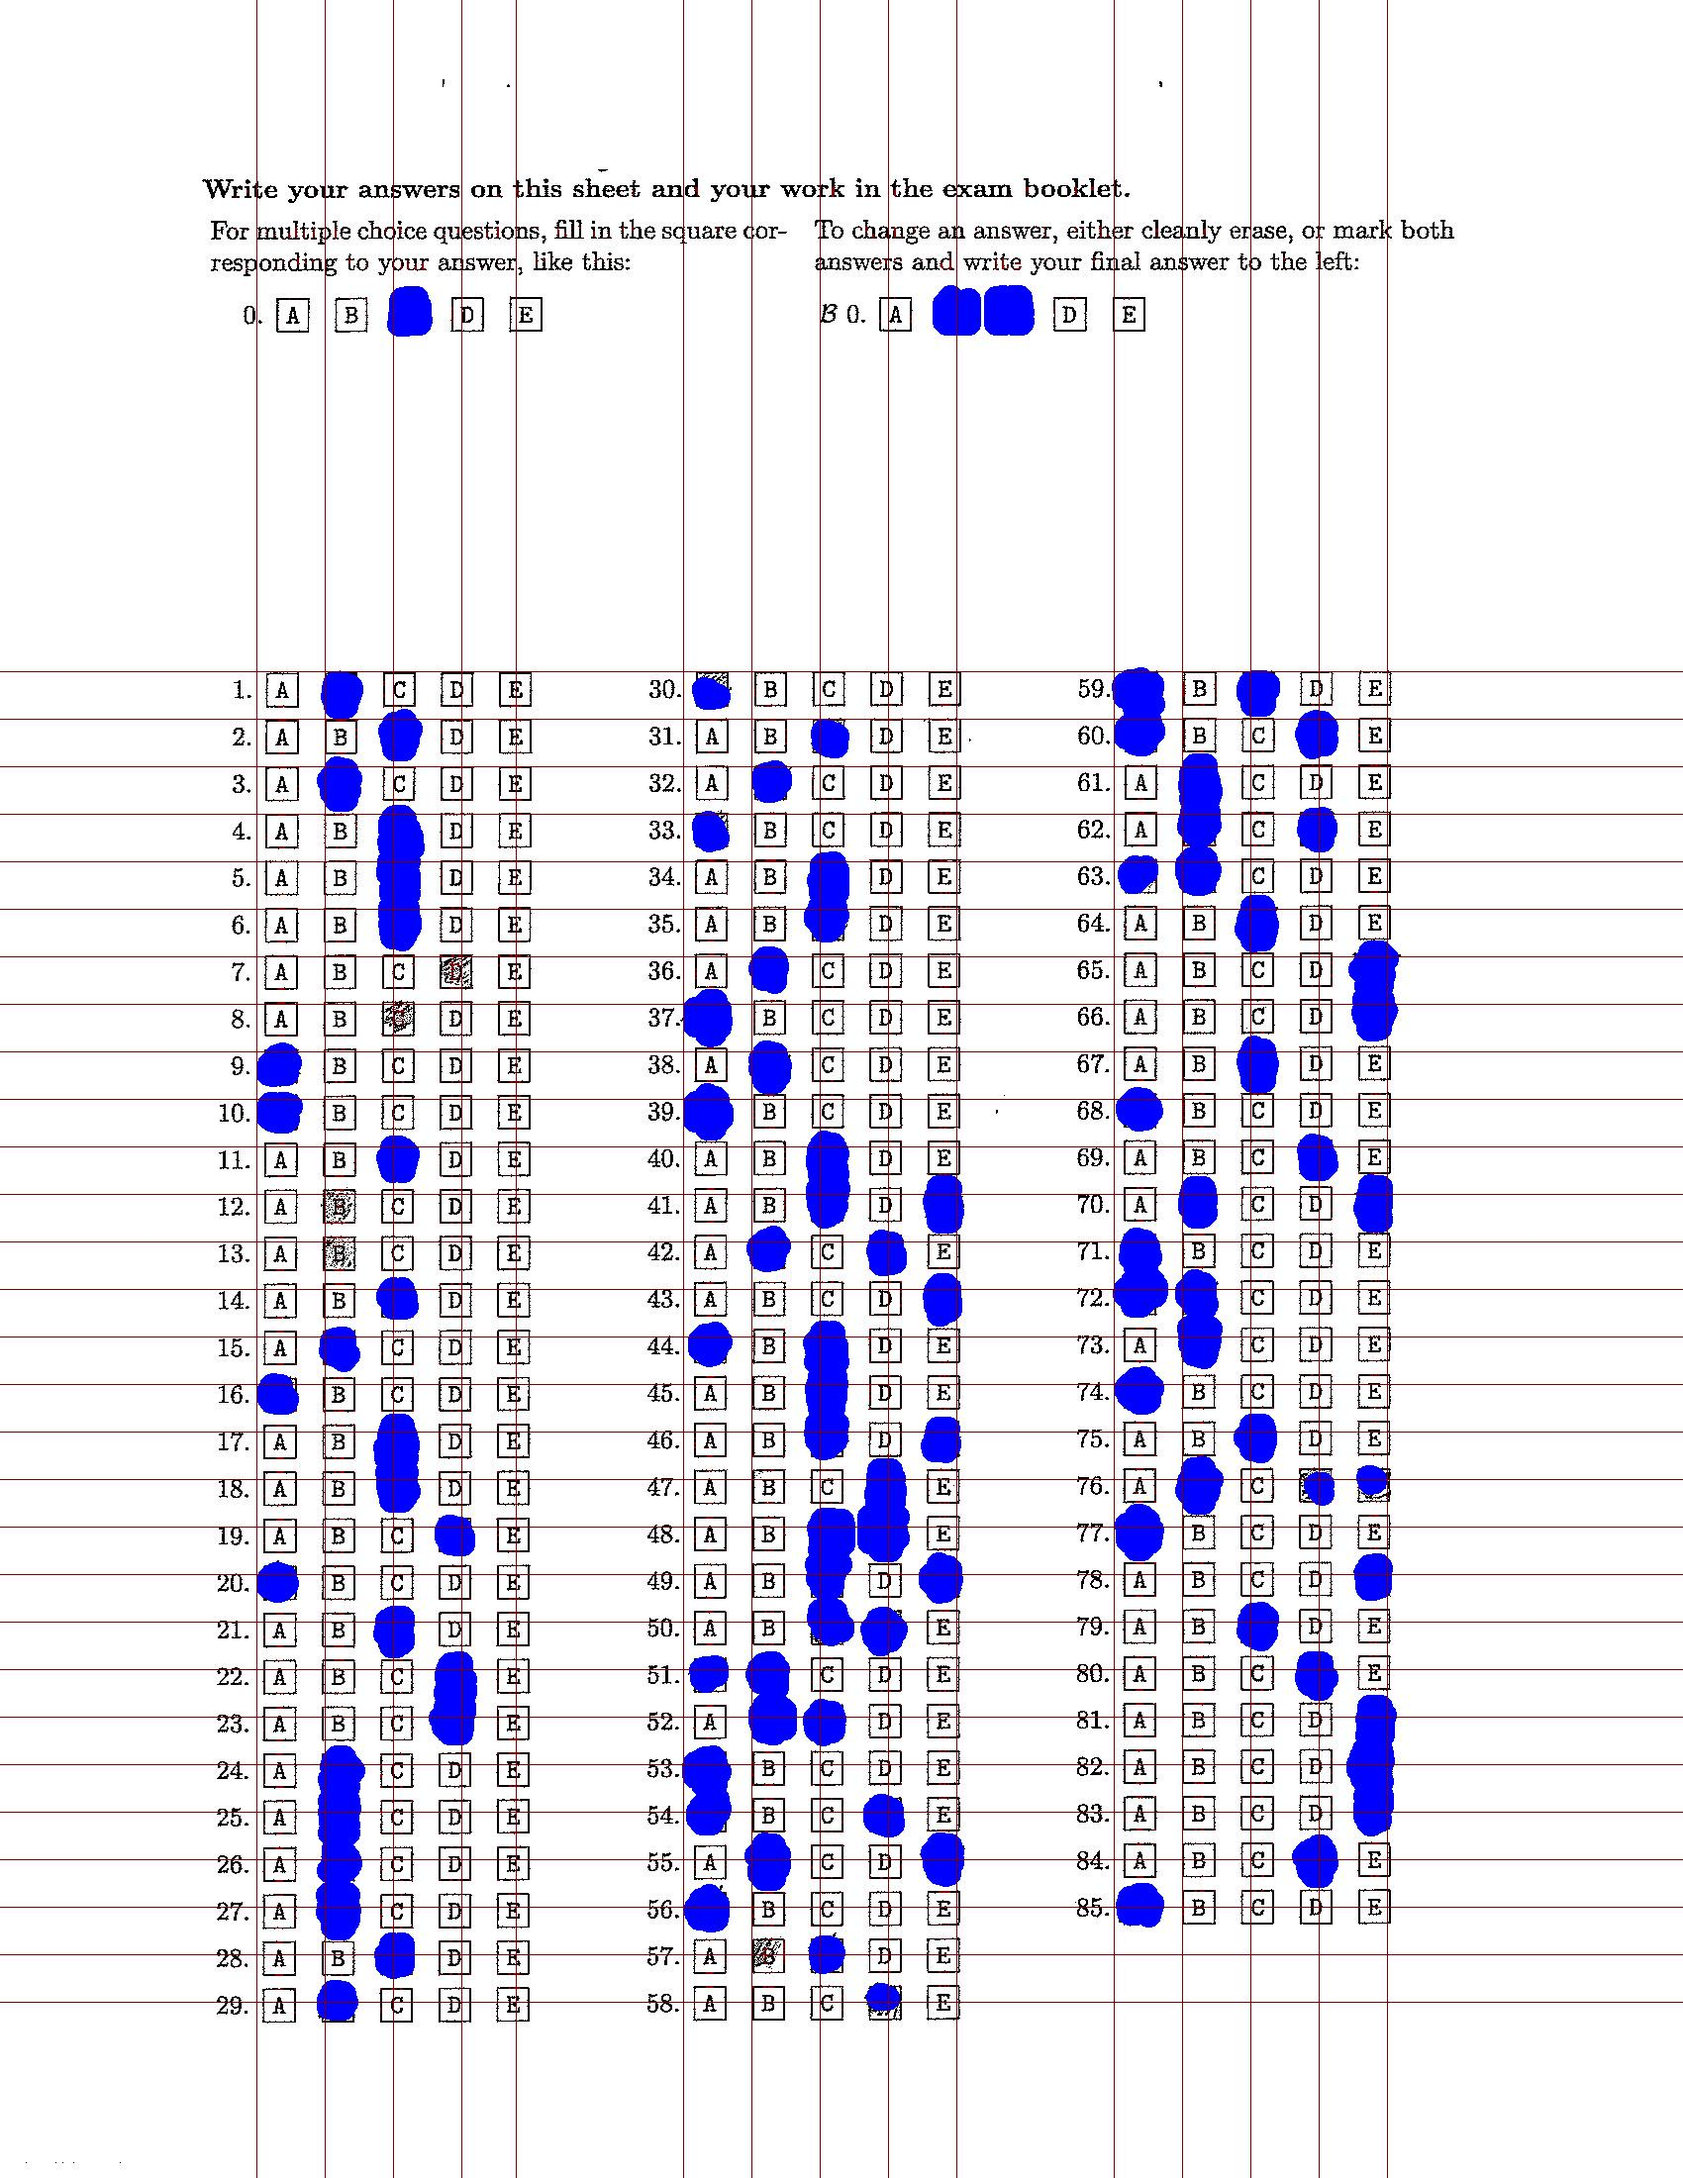
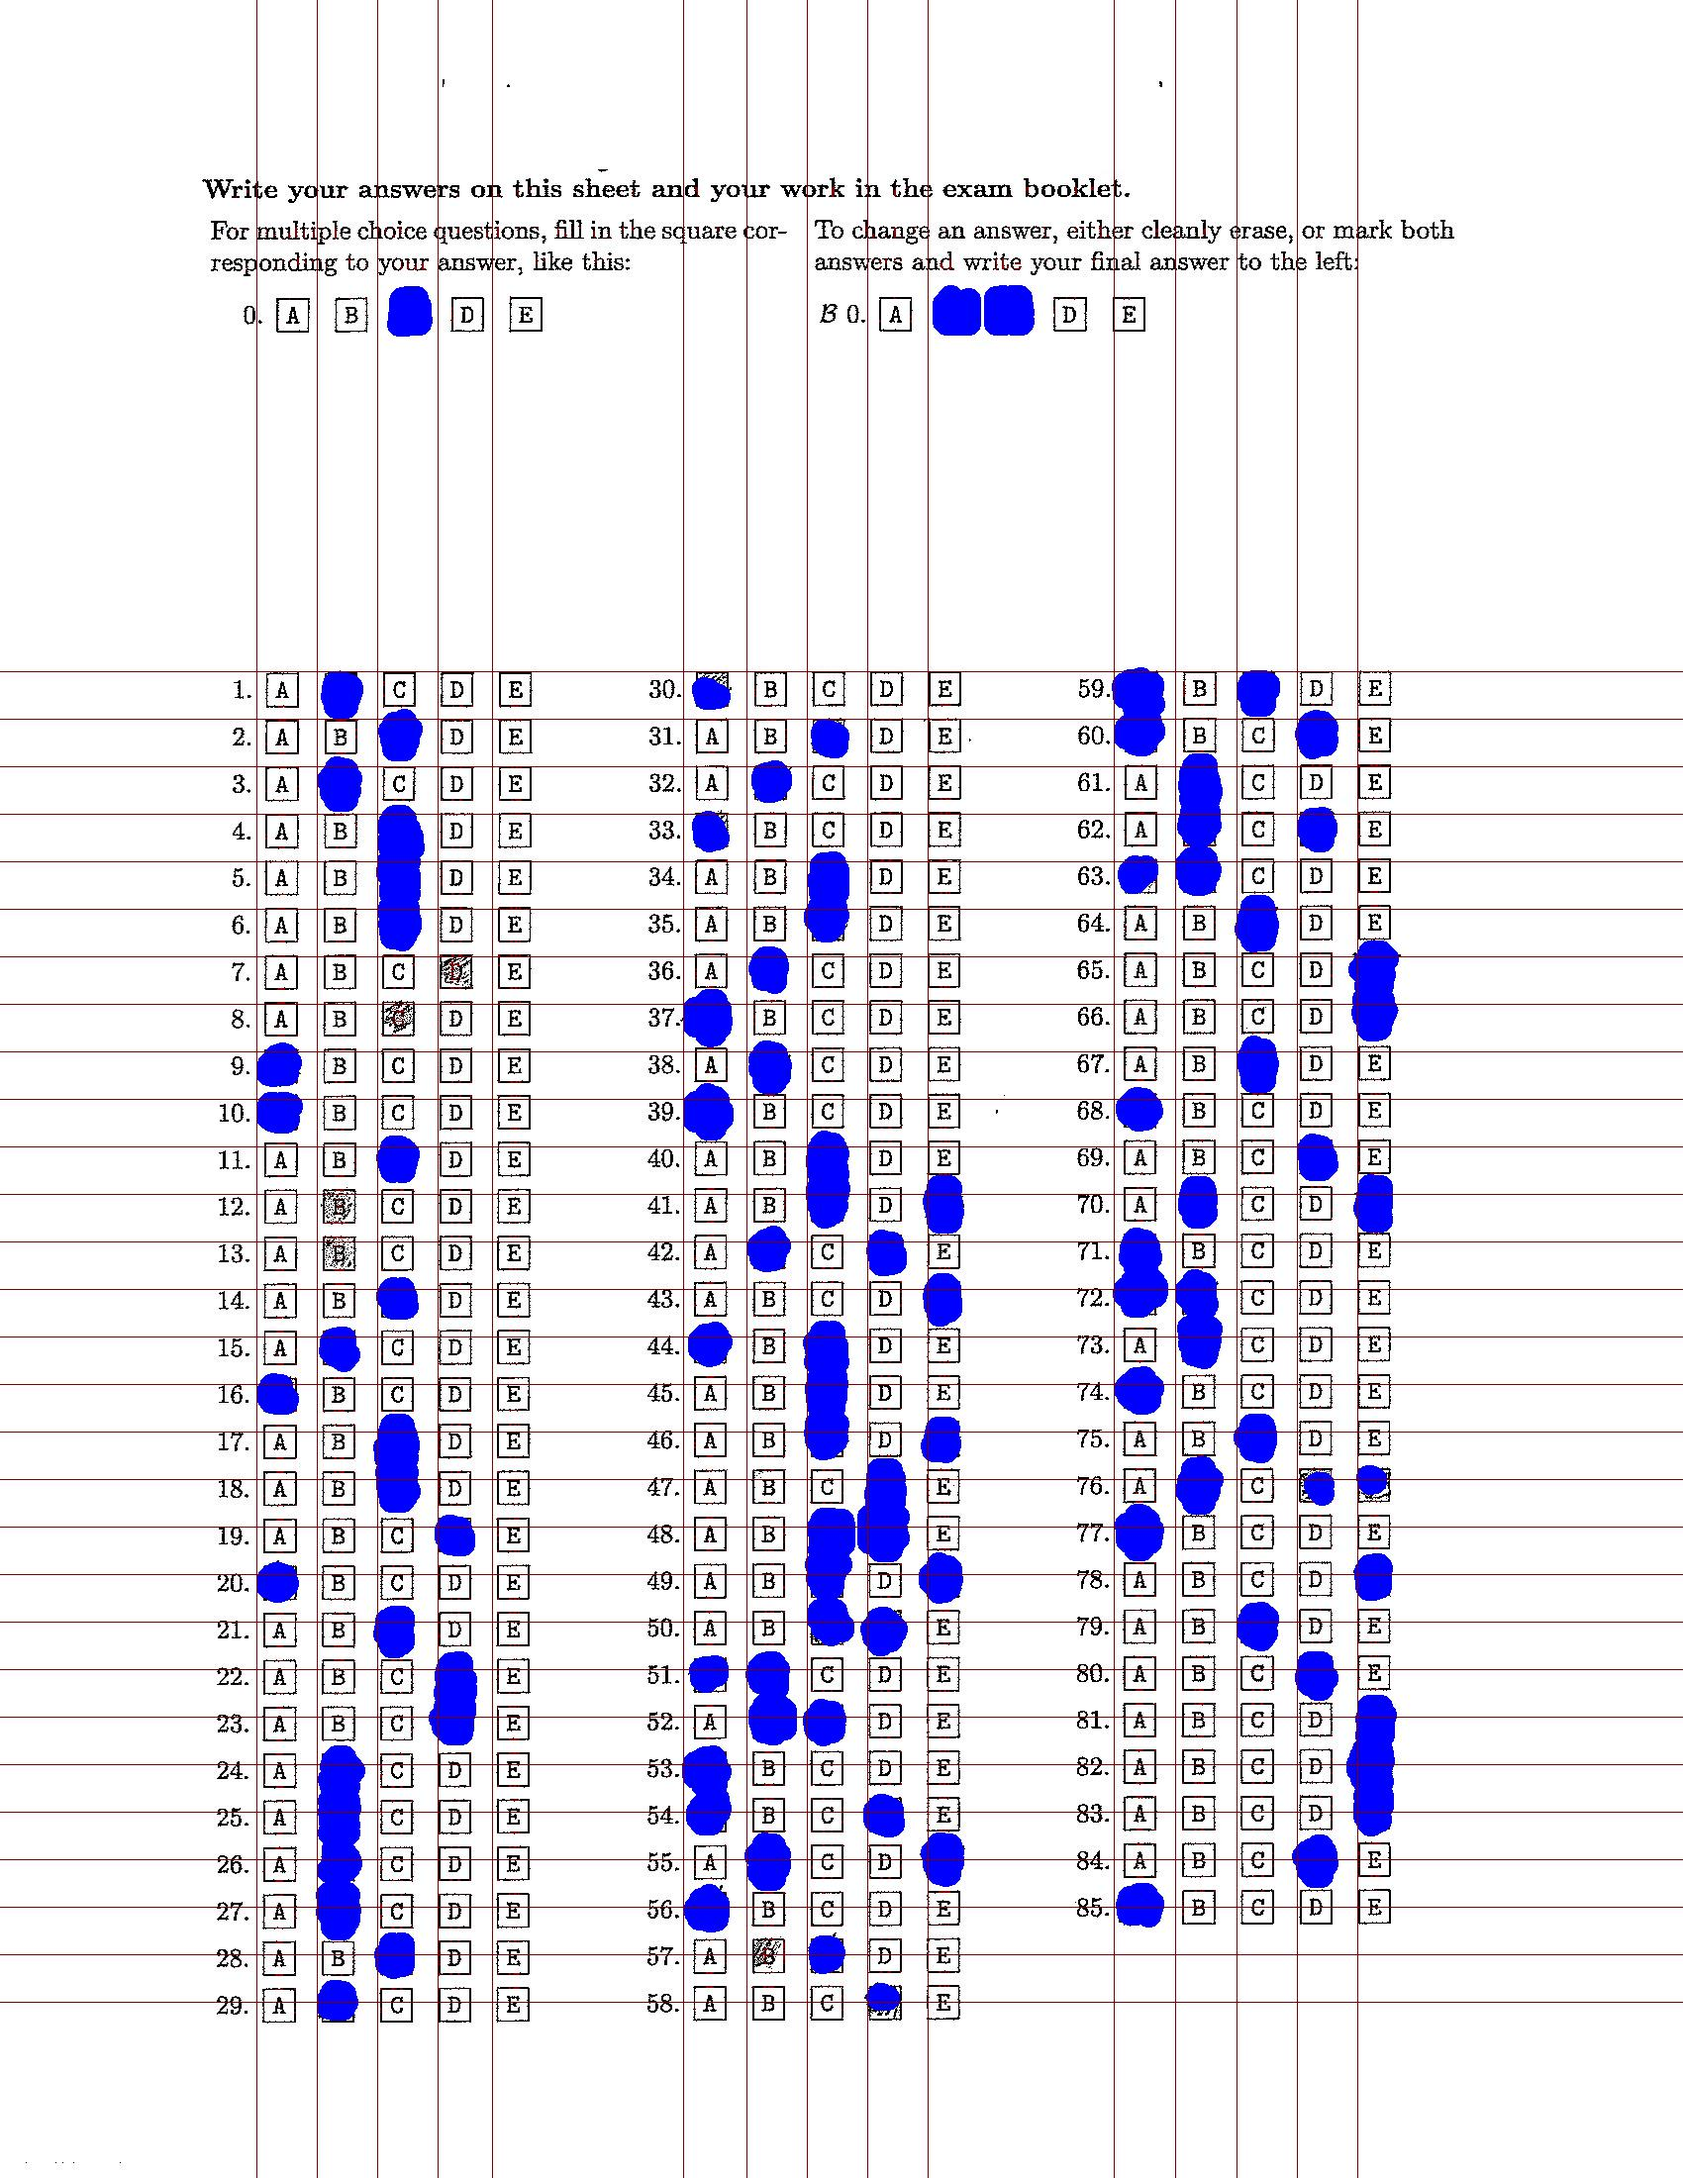
lab2 and fourier

diff --git a/lab1/lab1.py b/lab1/lab1.py
@@ -1,0 +1,75 @@
+#!/usr/bin/env python3
+from PIL import Image, ImageFilter
+import numpy as np
+import sys
+
+def convolution(image, kernel_matrix, kernel_dimensions):
+    output=np.zeros_like(image) ## creating a null output
+    image_padded=np.zeros((image.shape[0]+kernel_dimensions-1, image.shape[1]+kernel_dimensions-1, 3)) ## I'm adding kernel dimension-1 padding of zeros to the image to handle border convolution ## this generalizes it as any kernel can be used then
+    image_padded[1:-(kernel_dimensions-2), 1:-(kernel_dimensions-2)]=image ##getting rest of the data from the image
+    for i in range(image.shape[1]):
+        for j in range(image.shape[0]):
+            ## now I'm convolution over each red, green and blue pixel this automatically crops thepadded edges after computing it
+            red=((kernel_matrix * image_padded[j:j+kernel_dimensions, i:i+kernel_dimensions, 0]).sum())
+            green=((kernel_matrix * image_padded[j:j+kernel_dimensions, i:i+kernel_dimensions, 1]).sum())
+            blue=((kernel_matrix * image_padded[j:j+kernel_dimensions, i:i+kernel_dimensions, 2]).sum())
+            output[j,i,0]=red
+            output[j,i,1]=blue
+            output[j,i,2]=green
+    return Image.fromarray(output)
+
+##main driver code
+im=Image.open("w.jpg")
+kernel_matrix1=np.array([[0,0,0],[0,1,0],[0,0,0]])
+kernel_matrix2=np.array([[0.111111,0.111111,0.111111],[0.111111,0.111111,0.111111],[0.111111,0.111111,0.111111]])
+kernel_matrix3=np.array([[0.003,0.013,0.022,0.013,0.003],[0.013,0.059,0.097,0.059,0.013],[0.022,0.097,0.159,0.097,0.022],[0.013,0.059,0.097,0.059,0.013],[0.003,0.013,0.022,0.013,0.003]])
+kernel_matrix4_temp=np.array([[0,0,0,0,0],[0,0,0,0,0],[0,0,1,0,0],[0,0,0,0,0],[0,0,0,0,0]])
+alpha=0.5
+temp_mat_value=1+alpha
+kernel_matrix4=np.array(np.subtract(temp_mat_value*kernel_matrix4_temp, kernel_matrix3))
+
+#orignal image
+im.show()
+
+#identity kernel
+result=convolution(np.array(im),kernel_matrix1,3)
+result.save('Identity_kernel.jpeg')
+result.show()
+
+#box blur kernel
+result=convolution(np.array(im),kernel_matrix2,3)
+result.save('box_blur_filter.jpeg')
+result.show()
+
+#gaussian kernel
+result=convolution(np.array(im),kernel_matrix3,5)
+result.save('approximated_gaussian_filter.jpeg')
+result.show()
+
+#sharpening kernel
+result=convolution(np.array(im),kernel_matrix4,5)
+result.save('sharpening_filter.jpeg')
+result.show()
+
+############using pillow filtering libraries:
+##identity kernel
+result=im.filter(ImageFilter.Kernel((3,3),[0,0,0,0,1,0,0,0,0]))
+result.save('identity_kernel_direct.jpeg')
+result.show()
+
+##box blur filter filter
+result=im.filter(ImageFilter.Kernel((3,3),[0.111111,0.111111,0.111111,0.111111,0.111111,0.111111,0.111111,0.111111,0.111111]))
+result.save('box_blur_filter_direct.jpeg')
+result.show()
+
+##approximated gaussian filter
+result=im.filter(ImageFilter.Kernel((5,5),[0.003,0.013,0.022,0.013,0.003,0.013,0.059,0.097,0.059,0.013,0.022,0.097,0.159,0.097,0.022,0.013,0.059,0.097,0.059,0.013,0.003,0.013,0.022,0.013,0.003]))
+result.save('approximated_gaussian_filter_direct.jpeg')
+result.show()
+
+##sharpening filter
+result=im.filter(ImageFilter.Kernel((5,5),[-0.003, -0.013, -0.022, -0.013, -0.003,-0.013, -0.059, -0.097, -0.059, -0.013,-0.022, -0.097, 1.341, -0.097, -0.022,-0.013, -0.059, -0.097, -0.059, -0.013,-0.003, -0.013, -0.022, -0.013, -0.003]))
+result.save('sharpening_filter_direct.jpeg')
+result.show()
+
+

diff --git a/lab2/lab2.py b/lab2/lab2.py
@@ -1,0 +1,64 @@
+#!/usr/bin/env python3
+from PIL import Image, ImageOps, ImageDraw
+import numpy as np
+from scipy import fftpack,ndimage,signal
+import imageio
+##step 1-> open greyscale and resize to same dimensions
+image1,image2=Image.open("cat.jpg"),Image.open("man.jpg")
+image1,image2=ImageOps.grayscale(image1),ImageOps.grayscale(image2)
+image2=image2.resize((np.array(image1).shape[1],np.array(image1).shape[0]), Image.ANTIALIAS) ##resizing image2 to image1 size
+##step2-> perform FFT
+fft2_image1,fft2_image2=fftpack.fftshift(fftpack.fft2(image1)),fftpack.fftshift(fftpack.fft2(image2))
+imageio.imsave('output/fft_image_1_cat.png', (numpy.log(abs(fft2_image1))* 255 /numpy.amax(numpy.log(abs(fft2_image1)))).astype(numpy.uint8))
+imageio.imsave('output/fft_image_2_man.png', (numpy.log(abs(fft2_image2))* 255 /numpy.amax(numpy.log(abs(fft2_image2)))).astype(numpy.uint8))
+
+##step3->
+#assuming right now that the image is noise free so not removing any noise
+#low pass filter on image1
+pointb = np.array((int(np.array(fft2_image1).shape[0] / 2), int(np.array(fft2_image1).shape[1] / 2))) ##taking the image center
+for i in range(np.array(fft2_image1).shape[0]):
+    for j in range(np.array(fft2_image1).shape[1]):
+        pointa=np.array((i,j))
+        distance=np.linalg.norm(pointa-pointb)
+        if(distance<=50):pass #keep that point
+        else:fft2_image1[i][j]=0 # turn black
+#high pass filter on image2
+for i in range(np.array(fft2_image2).shape[0]):
+    for j in range(np.array(fft2_image2).shape[1]):
+        pointa,distance=np.array((i,j)),np.linalg.norm(pointa-pointb)
+        if(distance>=50): pass#keep that point
+        else: fft2_image2[i][j]=0# turn black
+high_pass_image_result=abs(fftpack.ifft2(fftpack.ifftshift(fft2_image1)))
+low_pass_image_result=abs(fftpack.ifft2(fftpack.ifftshift(fft2_image2)))
+#pixel wise summation
+new_image=np.add(np.array(high_pass_image_result),np.array(low_pass_image_result))
+output=Image.fromarray(new_image)
+if output.mode != 'RGB':
+    output = output.convert('RGB')
+output.save('output/Final_output_1.png')
+
+## for the second image
+pointb = np.array((int(np.array(fft2_image1).shape[0] / 2), int(np.array(fft2_image1).shape[1] / 2))) ##taking the image center
+for i in range(np.array(fft2_image1).shape[0]):
+    for j in range(np.array(fft2_image1).shape[1]):
+        pointa=np.array((i,j))
+        distance=np.linalg.norm(pointa-pointb)
+        if(distance>=50):pass #keep that point
+        else:fft2_image1[i][j]=0 # turn black
+#high pass filter on image2
+for i in range(np.array(fft2_image2).shape[0]):
+    for j in range(np.array(fft2_image2).shape[1]):
+        pointa,distance=np.array((i,j)),np.linalg.norm(pointa-pointb)
+        if(distance<=50): pass#keep that point
+        else: fft2_image2[i][j]=0# turn black
+high_pass_image_result=abs(fftpack.ifft2(fftpack.ifftshift(fft2_image1)))
+low_pass_image_result=abs(fftpack.ifft2(fftpack.ifftshift(fft2_image2)))
+#pixel wise summation
+new_image=np.add(np.array(high_pass_image_result),np.array(low_pass_image_result))
+output=Image.fromarray(new_image)
+if output.mode != 'RGB':
+    output = output.convert('RGB')
+output.save('output/Final_output_2.png')
+
+
+

diff --git a/fourier/fourier.py b/fourier/fourier.py
@@ -1,0 +1,72 @@
+#!/usr/bin/env python3
+##the working of my code is explained below step by stepin comments
+##the secret message was HI and an inverted HI
+from scipy import fftpack
+import imageio
+import numpy
+import warnings
+warnings.filterwarnings('ignore')## basically to ignore runtime warning of converting complex to integer to find the pixel position in the fourier domain
+
+# load in an image, convert to grayscale if needed
+image = imageio.imread('pichu-secret-1.png',as_gray=True)
+
+# take the fourier transform of the image
+fft2 = fftpack.fftshift(fftpack.fft2(image))
+
+##first we initialize two starting coordinates
+x1,y1=0,0
+x2,y2=0,0
+
+##traversing the fft array pixel by pixel we pin point the last point in the space which has a frequency of 18000+ which lies in the unusual range
+##we store these coordinated in x1 and y1
+for i in range(fft2.shape[1]):
+    for j in range(fft2.shape[0]):
+        if int(fft2[i][j])>18000:
+            x1=i
+            y1=j
+            break;
+
+##traversing the fft array pixel by pixel to find the first coordinates of piexels with a frequency of 18000+ which is a general threshold set by me after various testings with different values
+##the coordinates are then pin pointed to x2,y2
+control_the_loop=False
+for i in range(fft2.shape[0]):
+    for j in range(fft2.shape[1]):
+        if(int(fft2[i][j])>18000 and control_the_loop==False):
+            x2=i
+            y2=j
+            control_the_loop=True
+            break
+    if(control_the_loop==True):
+        break
+
+##now since we have the coordinates x1,y1 and x2,y2 we draw a square covering 12 pixels in length starting from x1,y1 to the bottom right
+##and starting from x2,y2 to the top left
+##these squares built cover the secret message and thus it removes the noise from the final fft-then-ifft.png image
+for i in range(x1-12,x1):
+    for j in range(y1,y1+12):
+        fft2[i][j]=0
+
+for i in range(x2,x2+12):
+    for j in range(y2,y2+12):
+        fft2[i][j]=0
+
+
+
+# save FFT to a file. To help with visualization, we take
+# the log of the magnitudes, and then stretch them so they
+# fill the whole range of pixel values from 0 to 255.
+imageio.imsave('output/fft.png', (numpy.log(abs(fft2))* 255 /numpy.amax(numpy.log(abs(fft2)))).astype(numpy.uint8))
+
+# At this point, fft2 is just a numpy array and you can
+# modify it in order to modify the image in the frequency
+# space. Here's a little example (that makes a nearly
+# imperceptible change, but demonstrates what you can do.
+
+# fft2[1,1]=fft2[1,1]+1
+
+# now take the inverse transform to convert back to an image
+ifft2 = abs(fftpack.ifft2(fftpack.ifftshift(fft2)))
+
+# and save the image
+imageio.imsave('output/fft-then-ifft.png', ifft2.astype(numpy.uint8))
+

diff --git a/assignment1/grade.py b/assignment1/grade.py
@@ -111,7 +111,7 @@ y_list,x_list = [],[]
 previous = 0
 for key, value in column.items():
     draw = ImageDraw.Draw(img2)
-    if (int(key) - int(previous) > 68 and value > 30):
+    if (int(key) - int(previous) > 60 and value > 30):
         draw.line((key, 0, key, np.array(img2).shape[0]), fill=128)
         previous = key
         y_list.append(key)
